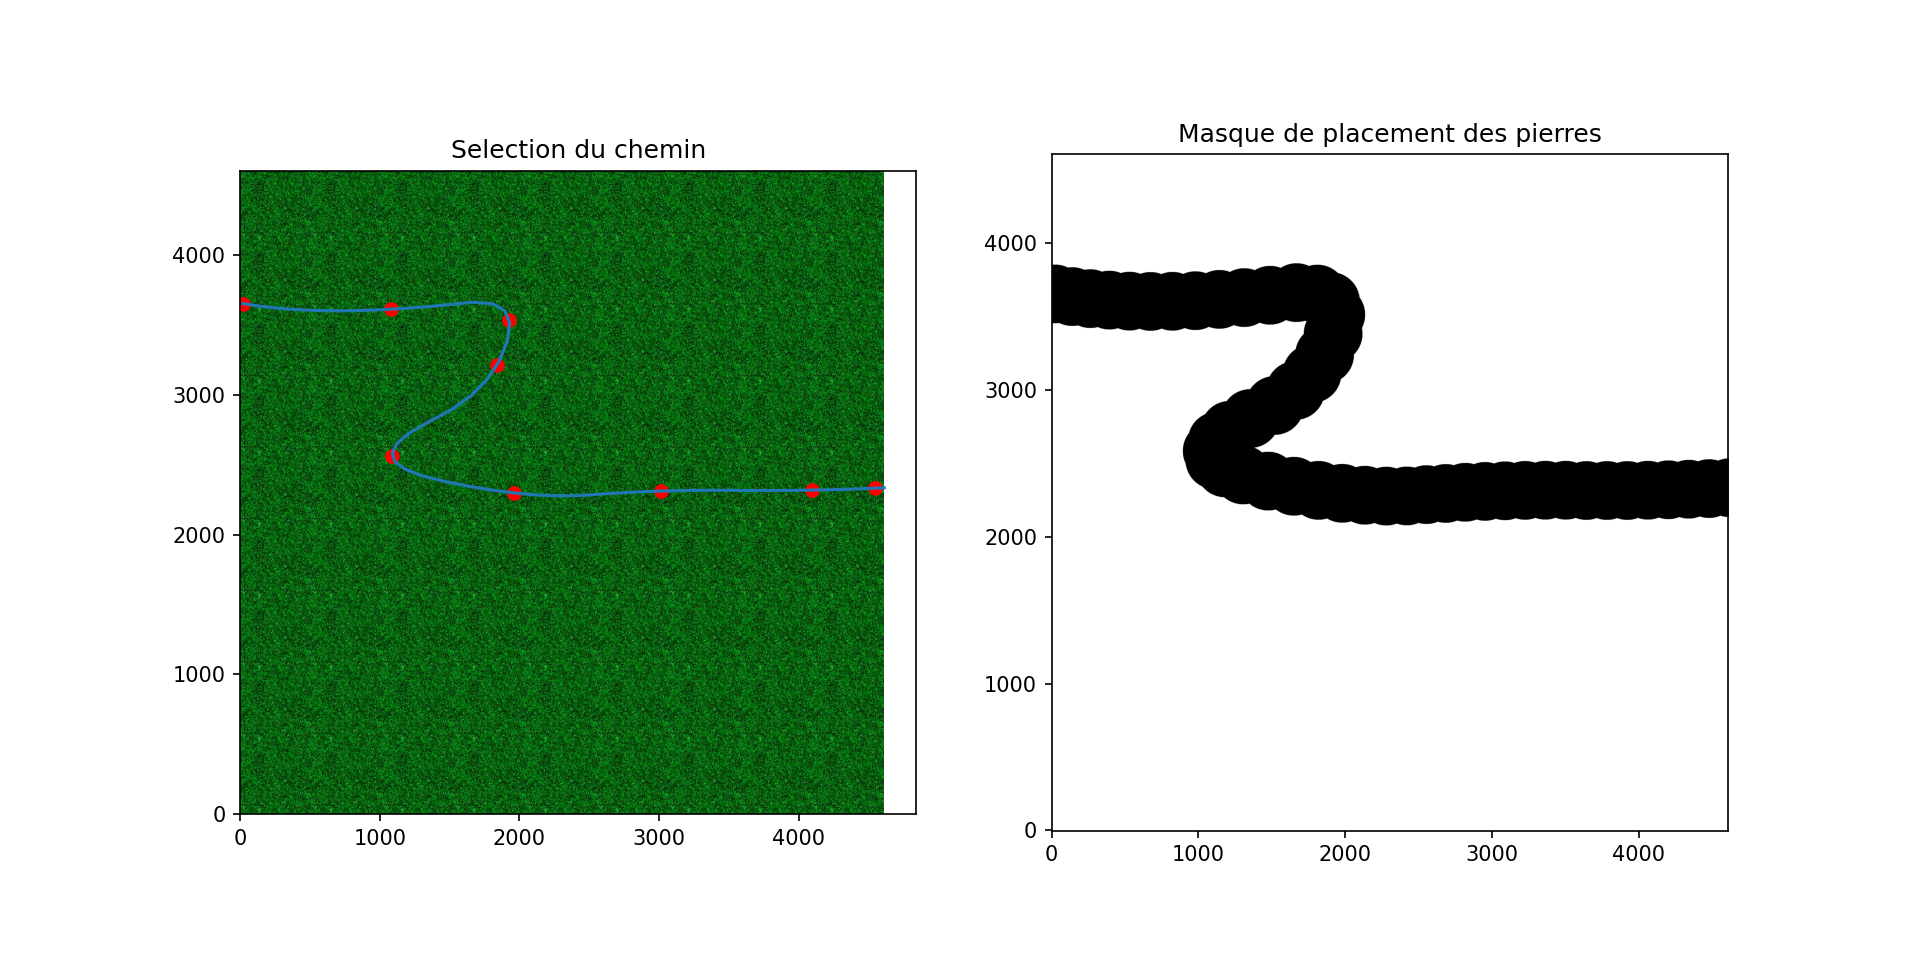
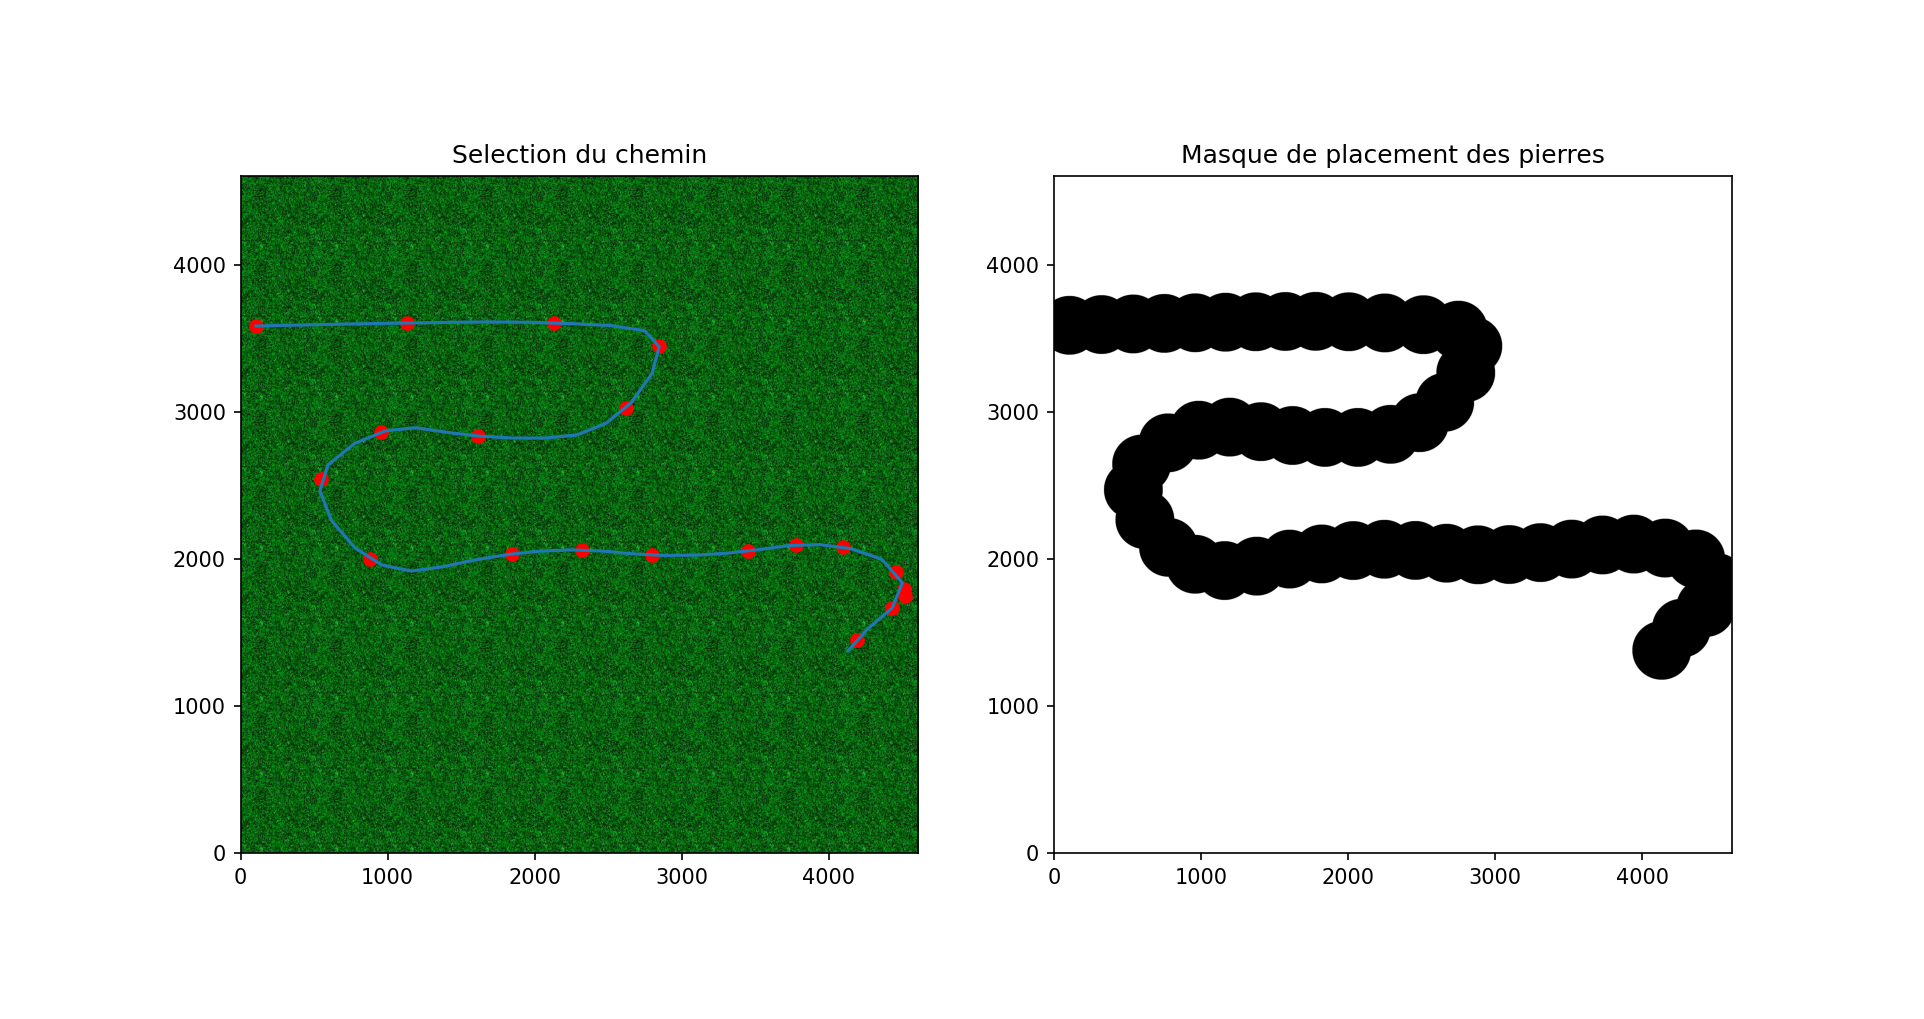
update

Changed region(s): [[0.0938, 0.1231, 0.9062, 0.8923], [0.5312, 0.1231, 0.9062, 0.1846], [0.5312, 0.8308, 0.9062, 0.8923]]

diff --git a/bin/Interpolation.py b/bin/Interpolation.py
@@ -9,7 +9,7 @@ patch_background_elem = cv2.imread("../Textures/freeTexture2.png")
 Taille_chemin = 200
 L = 8 #Largeur
 l = 8 #Longeur
-max_longeur_chemin = 10
+max_longeur_chemin = 20
 ######## Taille de patch de background ########
 
 
